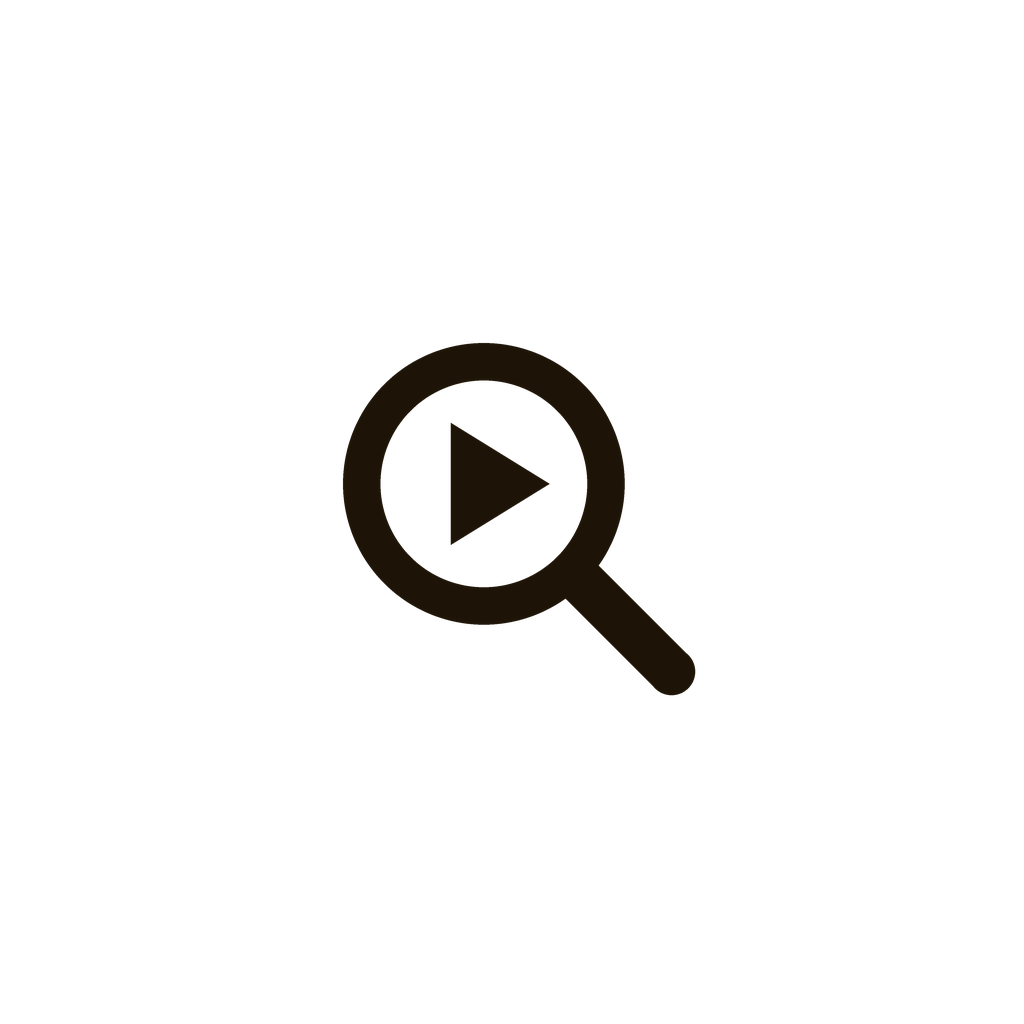
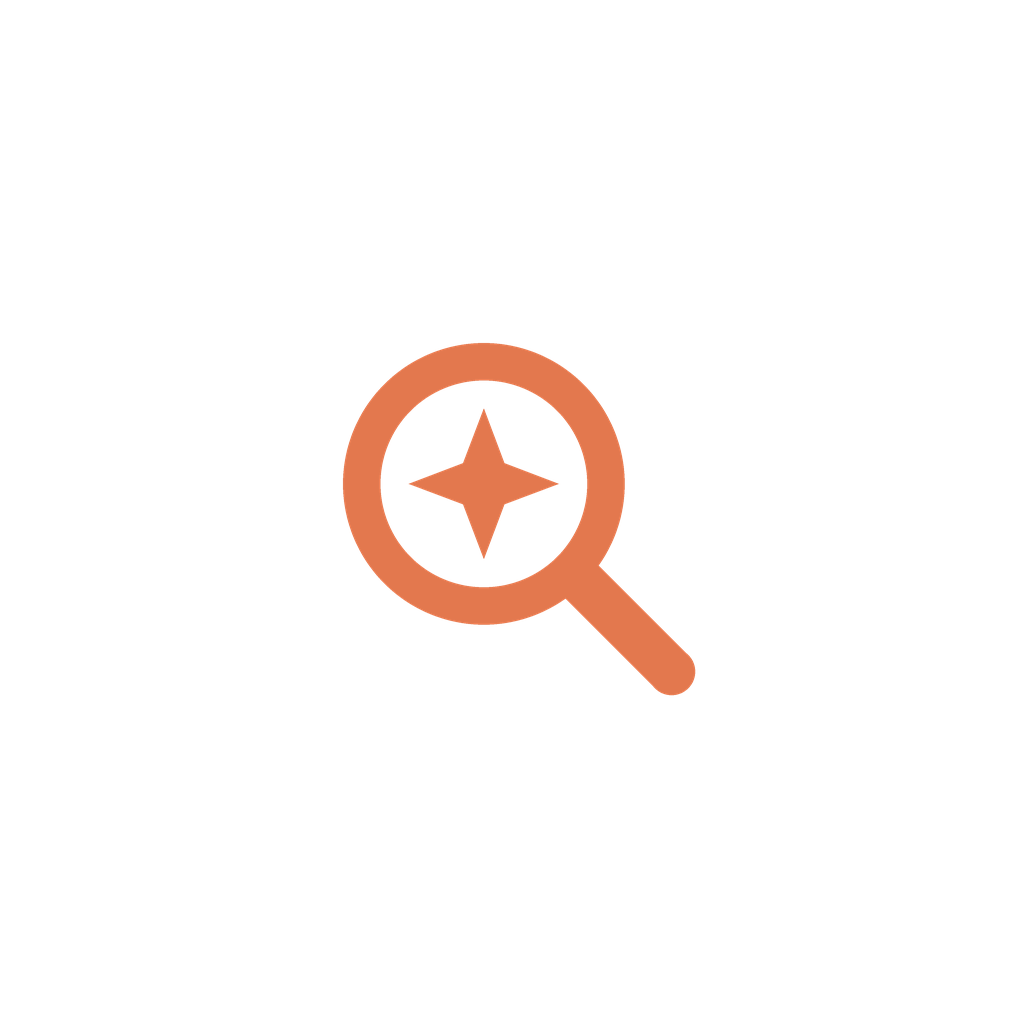
Switch to the Velvet Lens look
Red-velvet cinema darks and an ember-coral accent; the logo mark is now a
lens with a sparkle inside. App icon, adaptive icon and favicon updated.

Claude-Session: https://claude.ai/code/session_01TpWT2iw3ufMn2boHwr5nAX

Changed region(s): [[0.3125, 0.3125, 0.6875, 0.6875], [0.4062, 0.4062, 0.5312, 0.5312]]

diff --git a/src/theme.ts b/src/theme.ts
@@ -1,29 +1,29 @@
 import { Platform, type TextStyle } from "react-native";
 
 export const colors = {
-  // "Projector Amber": warm charcoal surfaces and the amber glow of a projector beam.
-  background: "#15110c",
-  surface: "#211a12",
-  surfaceRaised: "#2b2218",
-  border: "#3a2e20",
-  text: "#f6eee2",
-  textMuted: "#b3a48f",
+  // "Velvet Lens": red-velvet cinema darks and a warm ember coral.
+  background: "#140e10",
+  surface: "#21171a",
+  surfaceRaised: "#2b1f23",
+  border: "#3b2a2f",
+  text: "#f7ece8",
+  textMuted: "#b59e9f",
   /** Brand color: buttons, active tabs, focus rings, avatar. */
-  accent: "#e8a93c",
-  accentSoft: "rgba(232, 169, 60, 0.14)",
-  /** Brand color for text on dark backgrounds. */
-  accentText: "#efb653",
+  accent: "#e3784e",
+  accentSoft: "rgba(227, 120, 78, 0.14)",
+  /** Lighter brand color for text on dark backgrounds. */
+  accentText: "#ec8c66",
   /** Text and icons on top of `accent`. */
-  onAccent: "#1d1407",
+  onAccent: "#220c04",
   /** Errors and warnings – kept red so they don't look like brand elements. */
   danger: "#e5484d",
   dangerSoft: "rgba(229, 72, 77, 0.12)",
   success: "#3dd68c",
   successSoft: "rgba(61, 214, 140, 0.12)",
   rating: "#f5c451",
-  overlay: "rgba(21, 17, 12, 0.85)",
+  overlay: "rgba(20, 14, 16, 0.85)",
   /** The background color, fully transparent – for gradients that fade into the background. */
-  backgroundClear: "rgba(21, 17, 12, 0)",
+  backgroundClear: "rgba(20, 14, 16, 0)",
   glass: "rgba(255, 255, 255, 0.16)",
   shadow: "#000000",
   /** Light button background (e.g. "Continue with Apple", per Apple's guidelines). */

diff --git a/src/components/Logo.tsx b/src/components/Logo.tsx
@@ -7,7 +7,7 @@ const mark = require("../../assets/logo-mark.png");
 /** Serif wordmark. A bundled display font (e.g. Fraunces) can replace this later. */
 const WORDMARK_FONT = Platform.select({ ios: "Georgia", android: "serif", default: "Georgia, 'Times New Roman', serif" });
 
-/** The StreamScout logo: an amber lens with a play button (scouting for something to watch), plus the name. */
+/** The StreamScout logo: a coral lens with a sparkle inside (you found your next favorite), plus the name. */
 export function Logo({ size = 22 }: { size?: number }) {
   const markSize = size * 1.45;
   return (

diff --git a/CLAUDE.md b/CLAUDE.md
@@ -20,7 +20,7 @@ App for finding movies/TV shows and seeing where they stream in Sweden. One Expo
 ## Conventions
 - All TMDB communication goes through `src/api/tmdb.ts`; components use the hooks in `src/api/queries.ts`. `tmdbFetch` calls the Supabase Edge Function `tmdb` (`supabase/functions/tmdb/index.ts`, deployed with verify_jwt false, key in the secret `TMDB_API_KEY`). New TMDB endpoints must be added to its `ALLOWED_PATHS` and the function redeployed
 - TMDB responses are normalized to `MediaItem`/`MediaDetails` (`src/api/types.ts`) – components should never see raw TMDB fields
-- Colors and spacing come from `src/theme.ts`, no hard-coded colors in components. Palette "Projector Amber": warm charcoal surfaces and an amber brand color (`accent` #e8a93c, `accentText` for text on dark, `onAccent` – dark – for text/icons on top of it); errors use `danger` (red) – never `accent`
+- Colors and spacing come from `src/theme.ts`, no hard-coded colors in components. Palette "Velvet Lens": red-velvet cinema darks and an ember-coral brand color (`accent` #e3784e, `accentText` for text on dark, `onAccent` – dark – for text/icons on top of it); errors use `danger` (red) – never `accent`
 - Navigation: "My List" (`app/(tabs)/my-list.tsx`) only shows the list; sign-in/profile is `app/account.tsx`, reached from the avatar in `TopNav` (desktop) or `HeaderAccountButton` top right (phone)
 - Movies/TV Shows pages are `BrowseScreen` (`src/components/BrowseScreen.tsx`): rows, or – with a service (`ServicePicker`) and/or genre (`GenrePicker`) picked – a `MediaGrid` of `/discover` results (service = flatrate in SE). Filters live in the URL (`?service=<provider id>&genre=<key>`)
 - Streaming services offered as filters are the curated `SWEDISH_SERVICES` ids in `tmdb.ts` (TMDB's own ranking hides e.g. HBO Max). Genres are one shared static list in `src/api/genres.ts` mapping to TMDB's movie/TV genre ids
@@ -28,7 +28,7 @@ App for finding movies/TV shows and seeing where they stream in Sweden. One Expo
 - Member title state (`src/api/userTitles.ts`): seen, thumbs rating and "not interested" in table `public.user_titles` (RLS, own rows); set from `TitleActions` on the title page. `useWithoutHidden` drops hidden titles from rows, grids and search; `MediaCard` shows a seen badge
 - My List: "On my services" filter and service logos per card via `useAvailability`. Home: "Because you saved …" rows from the newest movie/TV show in My List
 - Search filters: genre is matched on the results' `genreIds`; service via each result's providers (`useFilteredResults`), auto-loading up to 5 pages
-- Logo (`src/components/Logo.tsx`): amber lens-with-play mark (`assets/logo-mark.png`) + serif wordmark "Stream**Scout**"; app icon, adaptive icon and favicon use the same mark. Tagline: "Find your next favorite."
+- Logo (`src/components/Logo.tsx`): coral lens-with-sparkle mark (`assets/logo-mark.png`) + serif wordmark "Stream**Scout**"; app icon, adaptive icon and favicon use the same mark. Tagline: "Find your next favorite."
 - Import from `src` with the `@/` alias
 - Wording: "Movies", "TV Shows", "My List"; "Movie"/"TV Show" as type labels
 - Everything must work on web, iOS and Android – avoid web- or native-only APIs without a fallback
